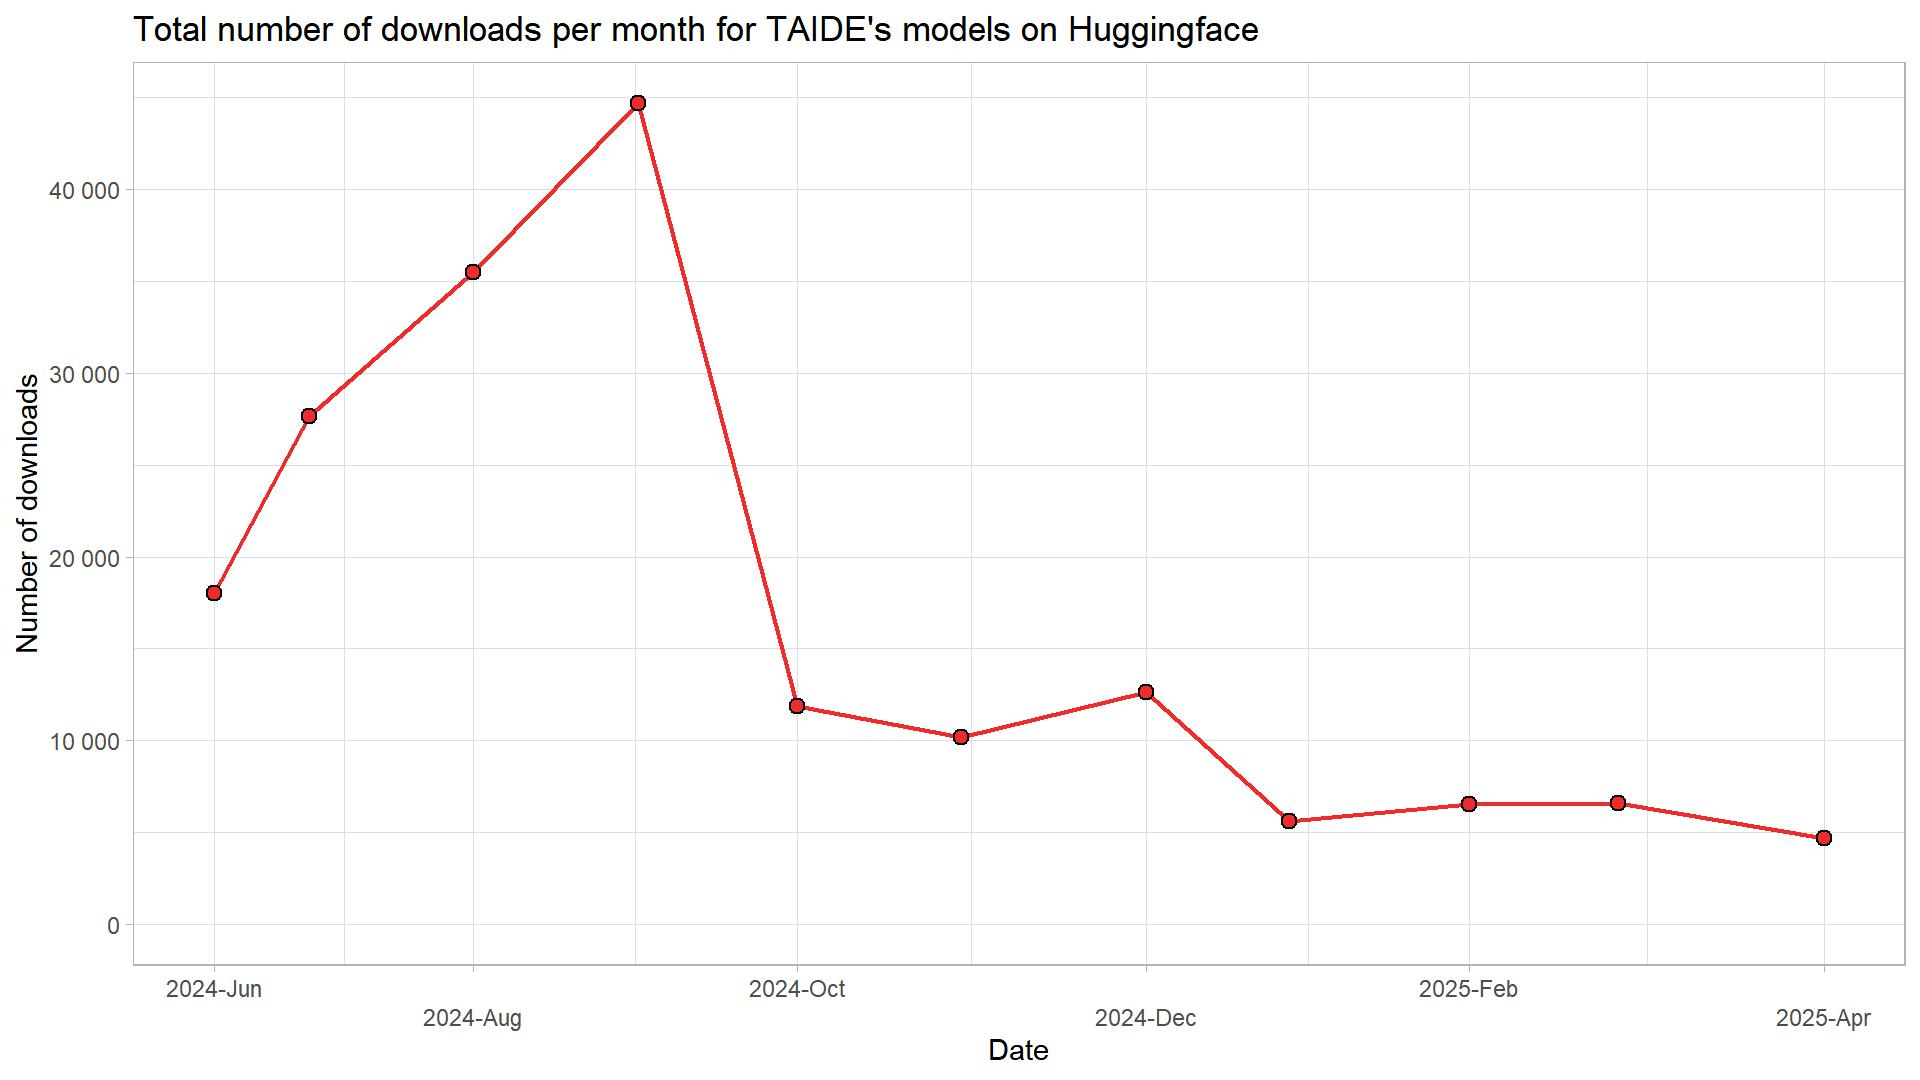
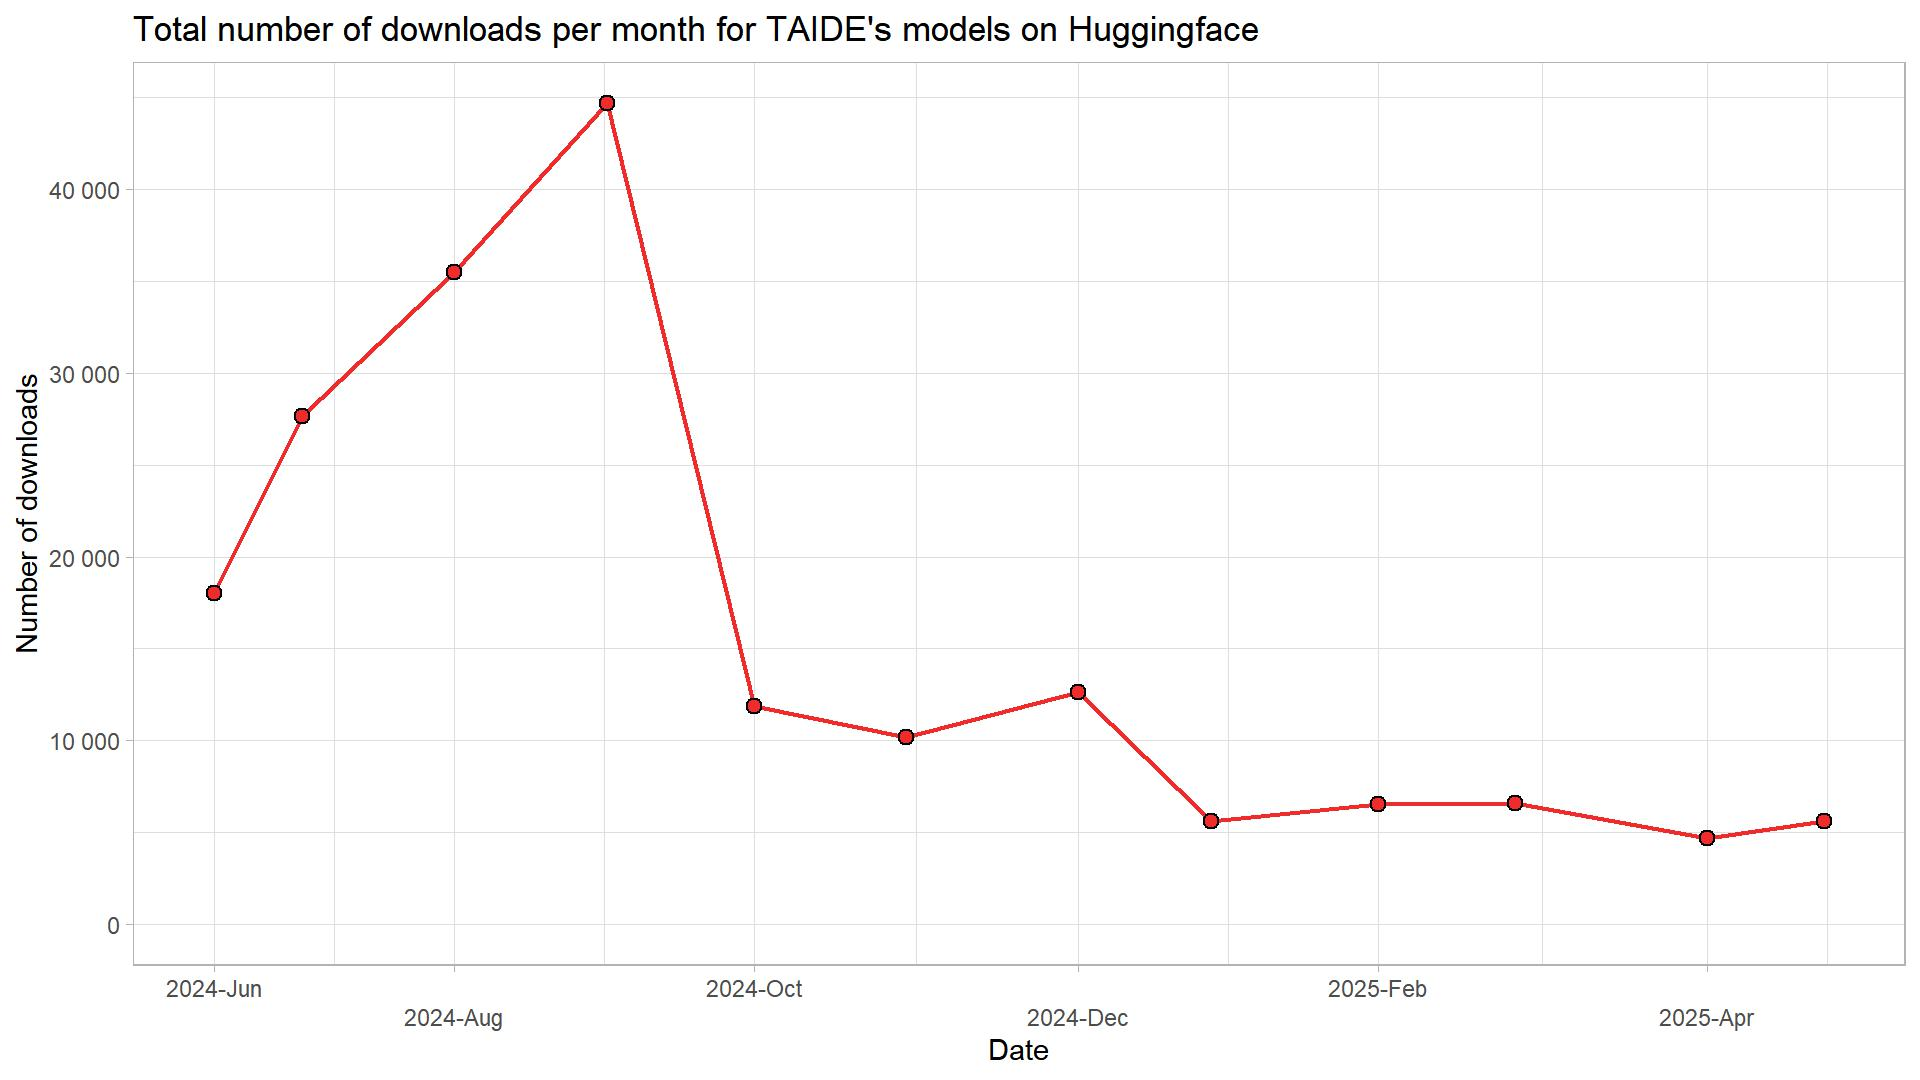
update

diff --git a/README.md b/README.md
@@ -12,16 +12,16 @@ Script is run monthly, and a monthly `csv`-file outputted to `/data` folder.
 
 ## Table of downloads
 
-|model_name                          | downloadsAllTime| 2025-04| 2025-03| 2025-02| 2025-01| 2024-12| 2024-11| 2024-10| 2024-09| 2024-08| 2024-07| 2024-06|
-|:-----------------------------------|----------------:|-------:|-------:|-------:|-------:|-------:|-------:|-------:|-------:|-------:|-------:|-------:|
-|Llama-3.1-TAIDE-LX-8B-Chat          |             4052|    1975|    1554|      NA|      NA|      NA|      NA|      NA|      NA|      NA|      NA|      NA|
-|Llama3-TAIDE-LX-8B-Chat-Alpha1      |           110514|    1675|    3484|    4922|    3122|    8215|    5272|    5042|   21499|   27164|   11808|   10491|
-|Llama3-TAIDE-LX-8B-Chat-Alpha1-4bit |             4827|      99|     252|     172|     185|     312|     444|     301|     527|     324|     412|     671|
-|TAIDE-LX-7B                         |            13358|     338|     145|     215|    1150|    2491|     463|     215|     860|    4063|    1098|    1454|
-|TAIDE-LX-7B-Chat                    |            63331|     527|    1045|     909|    1036|    1455|    3774|    6130|   21600|    3495|   14122|    5059|
-|TAIDE-LX-7B-Chat-4bit               |             2860|      37|      94|     311|     104|     135|     217|     107|     194|     148|     208|     259|
-|a.2.0.0                             |              131|       0|       0|       0|       0|       0|       0|       0|       0|       0|       0|      24|
-|b.1.0.0                             |              828|       0|       0|       0|       0|       0|       0|       0|       0|       0|      15|       0|
-|b.11.0.0                            |             1426|       0|       0|       0|       0|       0|       5|       0|       7|     302|       5|      36|
-|e.1.1.0                             |               69|       0|       0|       0|       0|       0|       0|       0|       0|       5|       0|      14|
-|llava_llama3_8b_clip336_e           |              115|       0|       0|       0|      NA|       0|       0|      81|      34|      NA|      NA|      NA|
+|model_name                          | downloadsAllTime| 2025-05| 2025-04| 2025-03| 2025-02| 2025-01| 2024-12| 2024-11| 2024-10| 2024-09| 2024-08| 2024-07| 2024-06|
+|:-----------------------------------|----------------:|-------:|-------:|-------:|-------:|-------:|-------:|-------:|-------:|-------:|-------:|-------:|-------:|
+|Llama-3.1-TAIDE-LX-8B-Chat          |             6553|    2770|    1975|    1554|      NA|      NA|      NA|      NA|      NA|      NA|      NA|      NA|      NA|
+|Llama3-TAIDE-LX-8B-Chat-Alpha1      |           111767|    1549|    1675|    3484|    4922|    3122|    8215|    5272|    5042|   21499|   27164|   11808|   10491|
+|Llama3-TAIDE-LX-8B-Chat-Alpha1-4bit |             4911|     102|      99|     252|     172|     185|     312|     444|     301|     527|     324|     412|     671|
+|TAIDE-LX-7B                         |            13844|     558|     338|     145|     215|    1150|    2491|     463|     215|     860|    4063|    1098|    1454|
+|TAIDE-LX-7B-Chat                    |            63810|     591|     527|    1045|     909|    1036|    1455|    3774|    6130|   21600|    3495|   14122|    5059|
+|TAIDE-LX-7B-Chat-4bit               |             2896|      40|      37|      94|     311|     104|     135|     217|     107|     194|     148|     208|     259|
+|a.2.0.0                             |              131|       0|       0|       0|       0|       0|       0|       0|       0|       0|       0|       0|      24|
+|b.1.0.0                             |              828|       0|       0|       0|       0|       0|       0|       0|       0|       0|       0|      15|       0|
+|b.11.0.0                            |             1426|       0|       0|       0|       0|       0|       0|       5|       0|       7|     302|       5|      36|
+|e.1.1.0                             |               69|       0|       0|       0|       0|       0|       0|       0|       0|       0|       5|       0|      14|
+|llava_llama3_8b_clip336_e           |              115|       0|       0|       0|       0|      NA|       0|       0|      81|      34|      NA|      NA|      NA|
